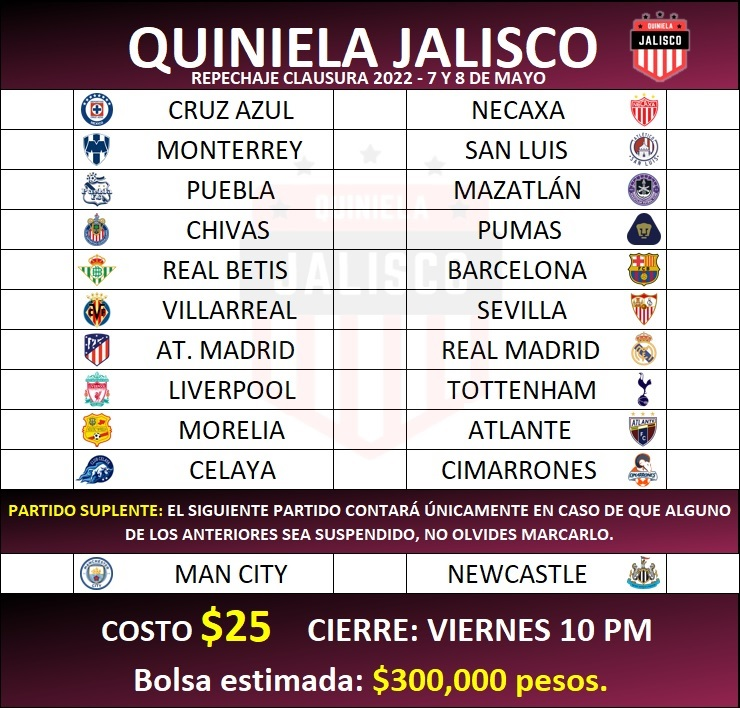
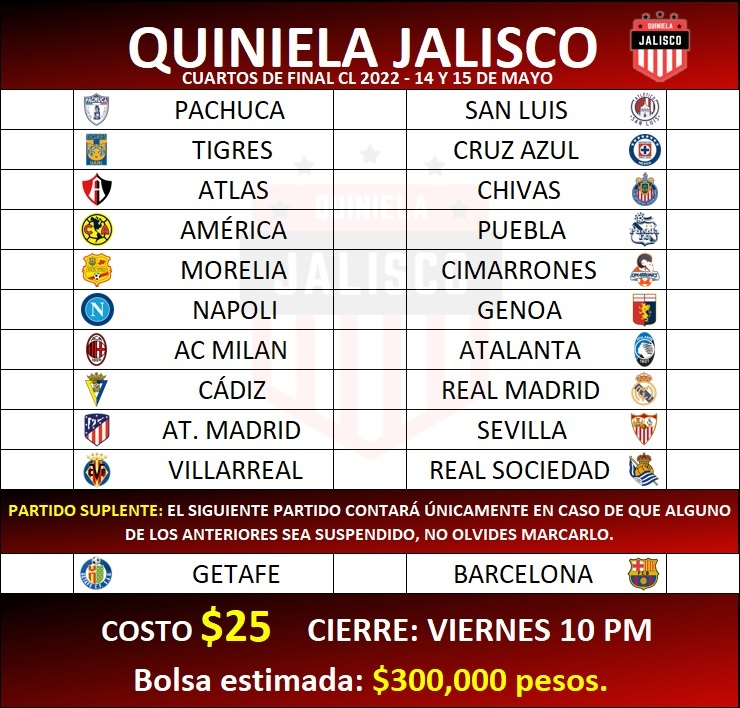
Cuartos de Final C22

diff --git a/11/styles11.css b/11/styles11.css
@@ -87,8 +87,8 @@ h1{
     margin-top: 9%;
     border-top: solid 1px black;
     border-radius: 0 0 14px 14px;
-    background: -webkit-linear-gradient(0.53turn, rgb(0,40,115)  ,rgb(0,0,0) 80%);
-    background: linear-gradient(0.53turn, rgb(0,40,115)  ,rgb(0,0,0) 80%);
+    background: -webkit-linear-gradient(0.53turn, rgb(152,4,2)  ,rgb(0,0,0) 80%);
+    background: linear-gradient(0.53turn, rgb(152,4,2)  ,rgb(0,0,0) 80%);
     font-size: x-large;
     text-shadow: 2px 2px 4px black;
 }
@@ -255,7 +255,7 @@ h6{
 }
 
 #cantidad:before{
-    content:'$400,000 pesos, \A ¡Se reparte todo el acumulado!';
+    content:'$300,000 pesos!';
     color: yellow;
     white-space:pre;
 }
